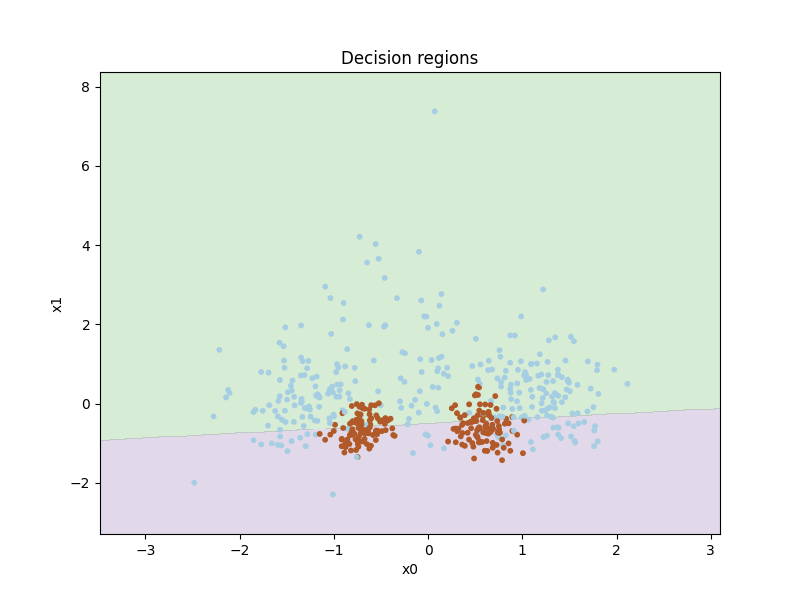
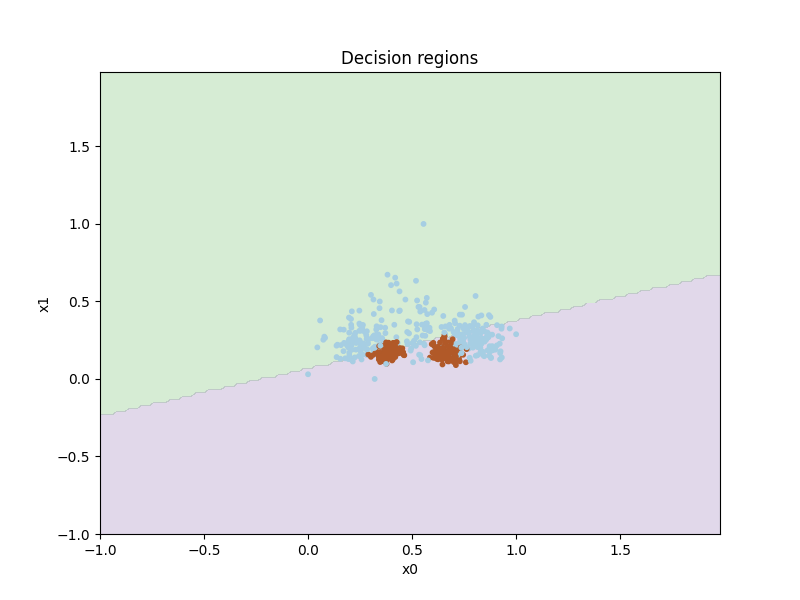
Finish scaling

diff --git a/IN3050/oblig2/main.py b/IN3050/oblig2/main.py
@@ -1,6 +1,6 @@
 import numpy as np
 
-from scaling import standard_scaler
+from scaling import minmax_scaler, standard_scaler
 from common import T_BINARY_TRAIN, T_BINARY_VAL, X_TRAIN, X_VAL, accuracy, plot_decision_regions
 from linear import LinearRegressionClassifier
 
@@ -61,16 +61,26 @@ def test_linear_classifier_without_scaling() -> None:
 
 
 def test_linear_classifier_with_scaling() -> None:
-    # With scaling we get drastically better results where training the classifier
-    # also actually improves it. The optimal parameters for the scaled linear
-    # classifier are 9 epochs with a learning rate of 0.3 resulting in an accuracy
-    # of 0.762, a significant improvement over fitting with unscaled data.
+    # The optimal parameters for the linear classifier scaled with the standard
+    # scaler are 9 epochs with a learning rate of 0.3 resulting in an accuracy
+    # of 0.762, and for the minmax scaler its 66 epochs and a learning rate of
+    # 0.5 resulting in an accuracy of 0.708. Both are significant improvements
+    # compared to the unscaled data.
 
-    print("Testing linear classifier with scaling")
+    print("Testing linear classifier with standard scaling")
     test_linear_classifier(
         standard_scaler(X_TRAIN),
         T_BINARY_TRAIN,
         standard_scaler(X_VAL),
+        T_BINARY_VAL,
+        "assets/linear-with-scaling.png"
+    )
+
+    print("Testing linear classifier with minmax scaler")
+    test_linear_classifier(
+        minmax_scaler(X_TRAIN),
+        T_BINARY_TRAIN,
+        minmax_scaler(X_VAL),
         T_BINARY_VAL,
         "assets/linear-with-scaling.png"
     )

diff --git a/IN3050/oblig2/scaling.py b/IN3050/oblig2/scaling.py
@@ -3,3 +3,7 @@ import numpy as np
 
 def standard_scaler(X: np.ndarray) -> np.ndarray:
     return (X - np.mean(X, axis=0)) / np.std(X, axis=0)
+
+
+def minmax_scaler(X: np.ndarray) -> np.ndarray:
+    return (X - X.min(axis=0)) / (X.max(axis=0) - X.min(axis=0))
